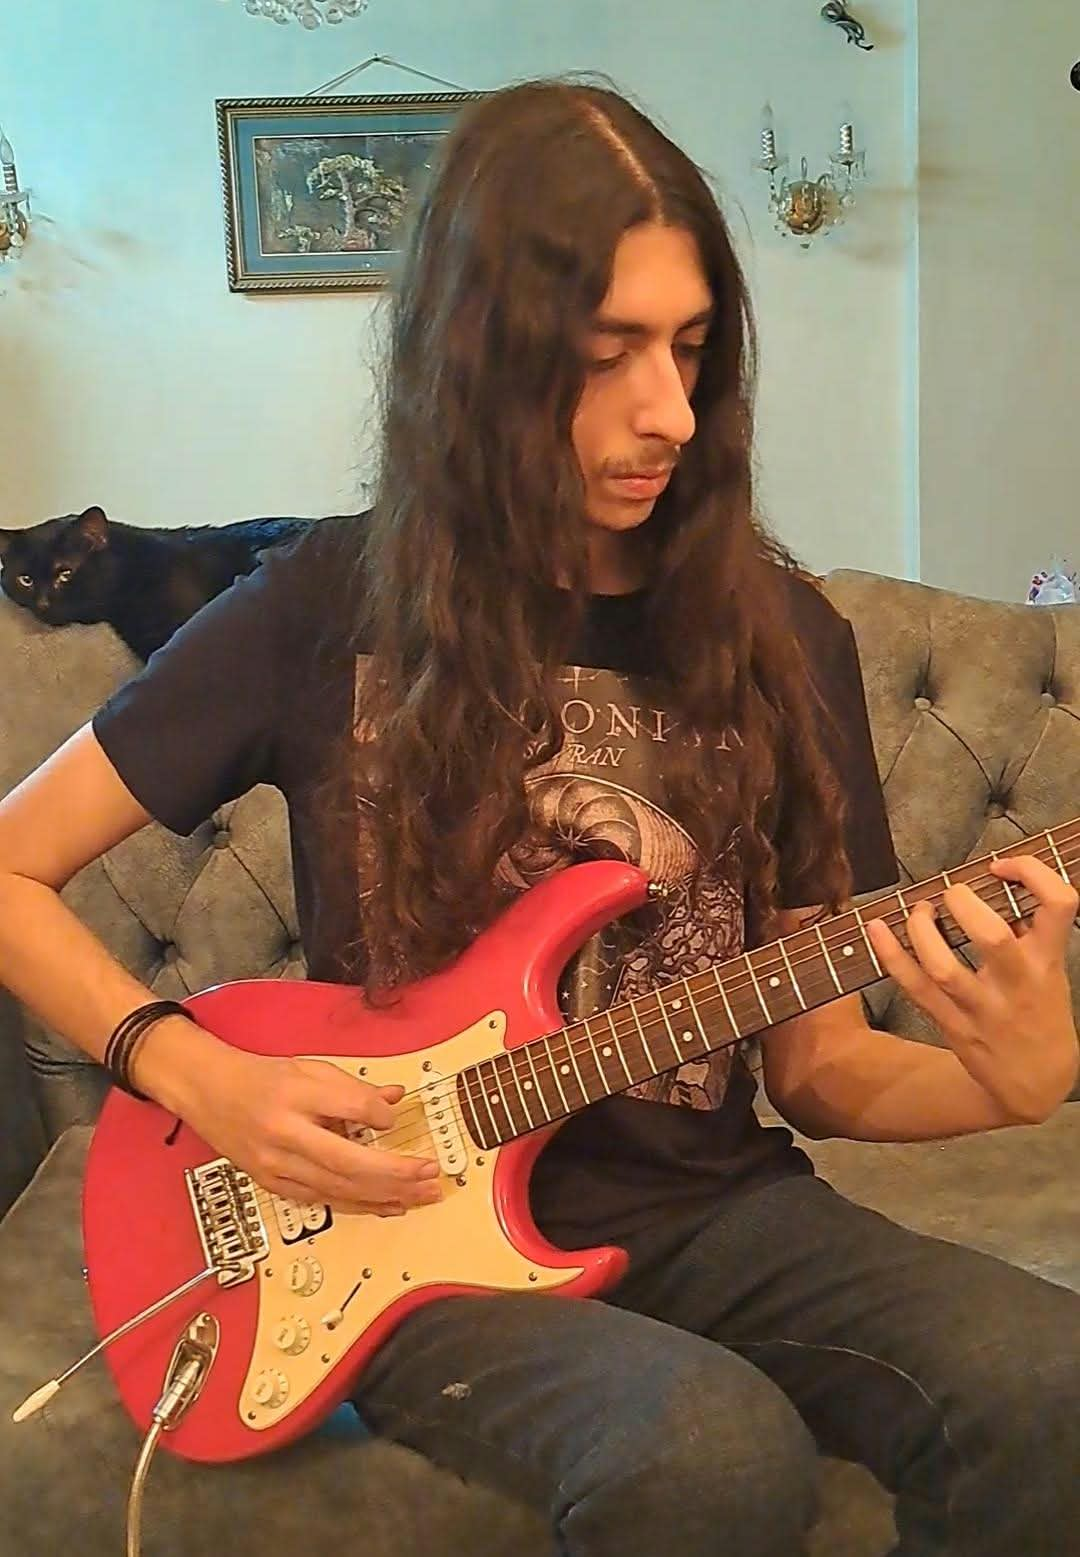
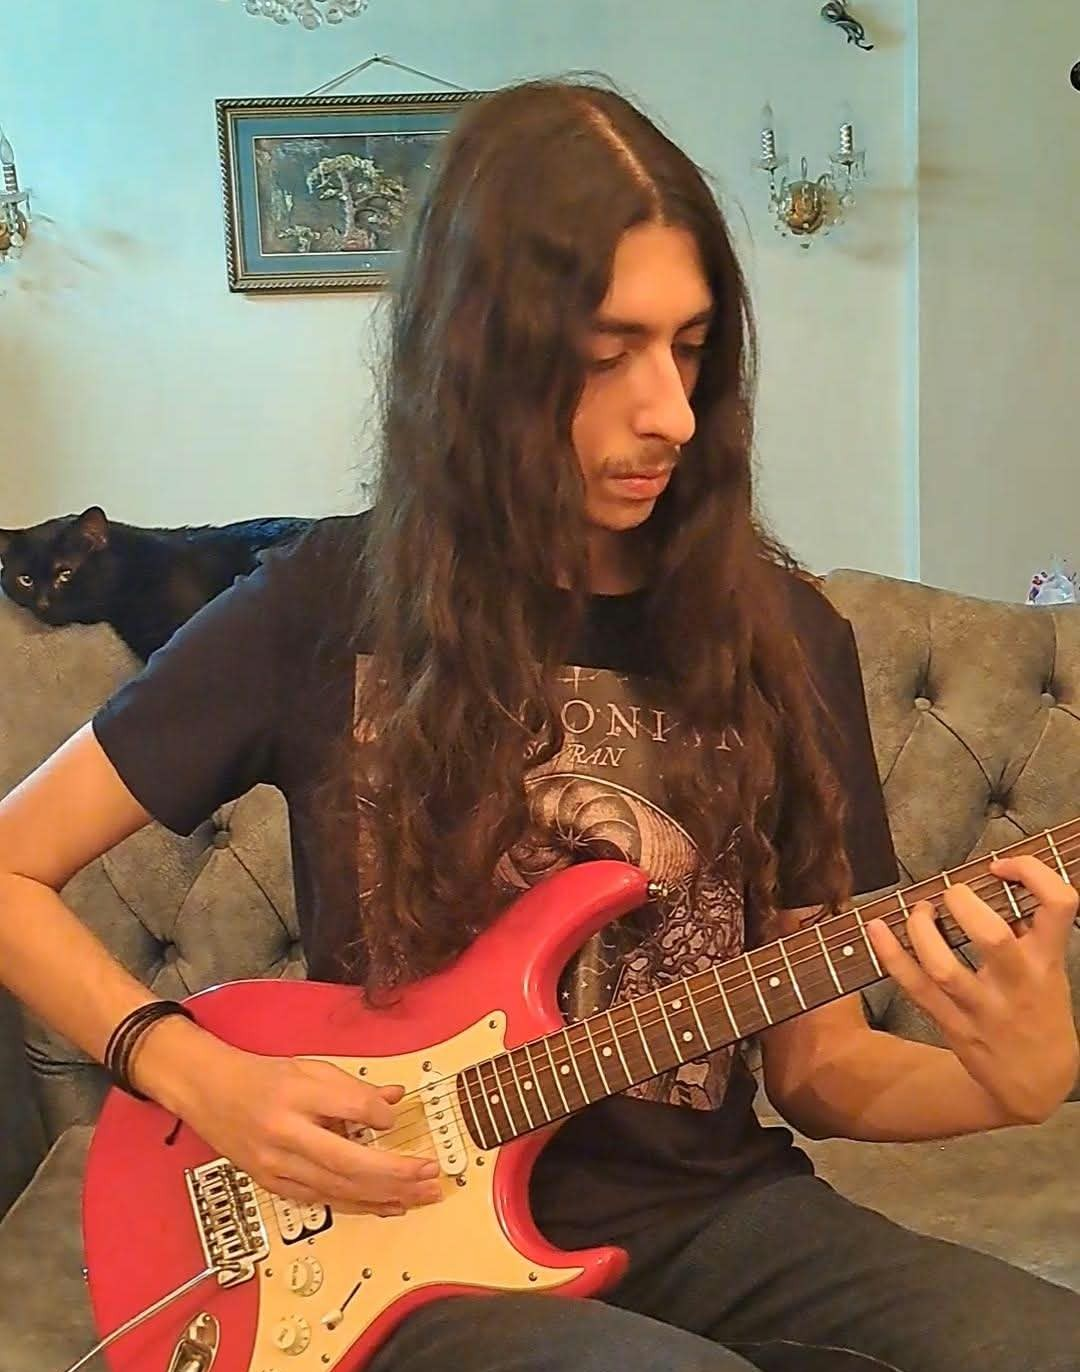
update picture

diff --git a/src/styles.css b/src/styles.css
@@ -34,14 +34,30 @@ h1 { font-size: clamp(2.9rem, 6.1vw, 5.4rem); line-height: 1.04; letter-spacing:
 .primary:hover { background: #7a25a4; color: white; }
 .secondary { background: white; border: 1px solid var(--line); }
 .profile-card { background: #eeebfb; border: 1px solid #e2ddef; border-radius: 22px; padding: 13px; }
-.portrait { display: grid; place-items: center; aspect-ratio: 1; border-radius: 14px; overflow: hidden; background: #c8c2ee; color: #552f77; font-size: 3.5rem; font-weight: 750; }
-.portrait img { display: block; width: 100%; height: 100%; object-fit: cover; }
+.portrait {
+  display: grid;
+  place-items: center;
+  aspect-ratio: 1;
+  border-radius: 14px;
+  overflow: hidden;
+  background: #c8c2ee;
+  color: #552f77;
+  font-size: 3.5rem;
+  font-weight: 750;
+}
+
+.portrait img {
+  display: block;
+  width: 100%;
+  height: 100%;
+  object-fit: cover;
+}
 figcaption { display: flex; flex-wrap: wrap; justify-content: space-between; align-items: baseline; gap: 4px 12px; padding: 13px 3px 3px; font-size: .9rem; }
 figcaption span { color: var(--muted); font-size: .82rem; }
 .section { padding-block: 54px; border-top: 1px solid var(--line); }
 .split { display: grid; grid-template-columns: 1fr 2fr; gap: 32px; }
-h2 { font-size: clamp(1.85rem, 4vw, 2.75rem); line-height: 1.08; letter-spacing: -.052em;color: #600a88; }
-h3 { font-size: 1.12rem; letter-spacing: -.025em; }
+h2 { font-size: clamp(1.85rem, 4vw, 2.75rem); line-height: 1.08; letter-spacing: -.052em;color: #4b076a; }
+h3 { font-size: 1.12rem; letter-spacing: -.025em;color:#600a88 }
 .about-copy p, .entry p, .project-info p, .contact p { color: var(--muted); }
 .about-copy p + p { margin-top: 12px; }
 .tags { display: flex; flex-wrap: wrap; gap: 8px; padding: 0; margin: 18px 0 0; list-style: none; }

diff --git a/src/components/ProfilePhoto.tsx b/src/components/ProfilePhoto.tsx
@@ -1,6 +1,5 @@
-import { useState,useEffect } from 'react';
+import { useState, useEffect } from 'react';
 import { profile } from '../content';
-
 
 export function ProfilePhoto() {
   const [unavailable, setUnavailable] = useState(false);
@@ -21,13 +20,20 @@ export function ProfilePhoto() {
         {unavailable ? (
           <span aria-hidden="true">{profile.initials}</span>
         ) : (
-          <img
-            src={profile.photos[index]}
-            alt={`Portrait of ${profile.name}`}
-            width="1024"
-            height="1024"
-            onError={() => setUnavailable(true)}
-          />
+          profile.photos.map((photo, i) => (
+            <img
+              key={photo}
+              src={photo}
+              alt={`Portrait of ${profile.name}`}
+              width="1024"
+              height="1024"
+              className={i === index ? 'active' : ''}
+              aria-hidden={i !== index}
+              onError={() => {
+                if (i === index) setUnavailable(true);
+              }}
+            />
+          ))
         )}
       </div>
 

diff --git a/src/content.ts b/src/content.ts
@@ -5,7 +5,7 @@ export const profile = {
   role: 'Software Engineer',
   headline: 'Making Art, from Guitar Strings to Lines of Code.',
   intro:
-    "MSc in Artificial Intelligence, Software Engineer with three years of experience. I love turning ideas into working software, and finding creative ways to make a positive impact. When I'm not coding, you'll probably find me playing guitar.",
+    "MSc in Artificial Intelligence, Software Engineer with three years of experience. I use technology to build creative solutions and make a positive impact. When I'm not coding, you'll probably find me playing guitar.",
   photos: ['./myPhoto.jpg',
     './me4.jpeg',
     './me5.jpeg',

diff --git a/src/sections/projects/ProjectStory.css b/src/sections/projects/ProjectStory.css
@@ -82,10 +82,9 @@
 .project-story-section h4 {
   margin: 0 0 0.1rem;
   font-size: 1.2rem;
-  color: indigo;
+  color: 600a88;
   font-family: "Arial";
-  letter-spacing: 0.04em;
-  opacity: 0.65;
+  opacity: 0.95;
 }
 
 .project-story-section p {
@@ -105,5 +104,26 @@
 
   .project-story-gallery img {
     height: 360px;
+  }
+}
+
+.portrait {
+  grid-template-columns: minmax(0, 1fr);
+  grid-template-rows: minmax(0, 1fr);
+}
+
+.portrait img {
+  grid-area: 1 / 1;
+  opacity: 0;
+  transition: opacity 0.6s ease-in-out;
+}
+
+.portrait img.active {
+  opacity: 1;
+}
+
+@media (prefers-reduced-motion: reduce) {
+  .portrait img {
+    transition: none;
   }
 }

diff --git a/src/sections/projects/Projects.tsx b/src/sections/projects/Projects.tsx
@@ -13,7 +13,7 @@ export function Projects() {
       aria-labelledby="projects-title"
     >
       <h2 id="projects-title">
-        Stories Behind the Projects
+        Stories Behind the Projects : 
       </h2>
 
       <div className="projects-list">
